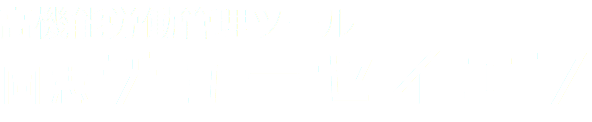
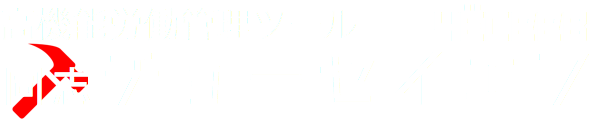
GitAutoPush at 2016/02/07/22:29:36

diff --git a/css/style.css b/css/style.css
@@ -66,13 +66,14 @@ body
 
   h2{
     position: relative;
-    margin:10px 0 1em;
+    margin:10px auto;
+    margin-bottom: 1em;
     padding: 0.3em;
     border:solid 1px #ff4f00;
     background:#ff4f00;
     color: white;
     font-size: 25px;
-    font-family: 'makinas';
+    width: 80%;
   }
   h2:after{
     position: absolute;
@@ -88,7 +89,7 @@ body
   }
 
   blockquote{
-    padding:2em 1em;
+    padding:1.5em 1em;
     position:relative;
   }
   blockquote:before{
@@ -114,51 +115,50 @@ body
 
   .main{
     margin:0 auto;
-    max-width:80%;
+    width:90%;
   }
 
-  #breadcrumbs-one{
-    overflow-y: hidden;
-    overflow-x: auto;
-    white-space: nowrap;
-    margin-left:-10px;
-    width:1000px;
+  .form{
+    display: inline-block;
+    vertical-align: bottom;
+    min-height:300px;
+    width:400px;
+    background:#ff4f00;
+    margin:5px;
+    padding:10px;
   }
-
-  #breadcrumbs-one a{
-    padding: .6em 2em .6em 2em;
-    margin-left:-7px;
-    display:inline-block;
-    text-decoration: none;
-    color: black;
-    position: relative;
-    background:black;
-    height:100px;
-    width:40%;
+  .form--wide1{
+    width:600px;
   }
-  #breadcrumbs-one a:first-child{
-    background: gray;
+  .form--wide2{
+    width:800px;
   }
-
-  #breadcrumbs-one a:first-child::after,
-  #breadcrumbs-one a:first-child::before{
-    content: "";
-    position: absolute;
-    top: 50%;
-    margin-top: -50px;
-    border-top: 50px solid transparent;
-    border-bottom: 50px solid transparent;
-    border-left: 50px solid;
-    right: -50px;
+  .form input[type="text"],
+  .form textarea{
+    width:90%;
+  	height:2em;
+  	opacity:0.8;
+    font-family: Meiryo, TakaoPGothic, 'Hiragino Kaku W0';
+    font-size: 1em;
+    appearance: none;
+    box-shadow: none;
+    border: none;
+  	background: white;
+    padding-left:10px;
   }
-  #breadcrumbs-one a:first-child::after{
-    z-index: 2;
-    border-left-color: yellow;
+  .form input[type="text"]:focus,
+  .form textarea:focus{
+  	opacity: 1;
+    outline: none;
   }
-  #breadcrumbs-one a:first-child::before{
-    right: -1.1em;
-    z-index: 1;
-    border-left-color: yellow;
+  .form.schedule input[type="text"]{
+    float:left;
+    width:50%;
+  }
+  .form.schedule textarea{
+    float:left;
+    width:50%;
+    height:200px;
   }
 
 /**********************************************************************
@@ -174,21 +174,18 @@ body
   overflow: hidden;
 }
 
-.header .logo{
-  position: relative;
-  height:400px;
-}
-.header .logo .lenin{
+.header .lenin{
   position: absolute;
   height:140px;
 }
-.header .logo .title{
+.header .title{
   display: inline-block;
-  height:60px;
+  height:80px;
 }
 .header blockquote{
   position: absolute;
-  left:150px;
+  left:140px;
+
 }
 
 /**********************************************************************
@@ -208,6 +205,45 @@ body
   color:black;
 }
 
+/**********************************************************************
+/  Calender
+/**********************************************************************/
+#datepicker{
+  float:right;
+  width:40%;
+}
+.ui-datepicker {
+  height: auto;
+  margin:0 auto;
+  font-family: 'Open Sans';
+}
+.ui-datepicker-title {
+  text-align: center;
+  color:white;
+}
+.ui-datepicker tr {
+  color:white;
+}
+.ui-datepicker-prev {
+
+  float:left;
+}
+.ui-datepicker-next {
+  float:right;
+}
+.ui-datepicker td{
+  text-align: center;
+  width:2em;
+  text-decoration: none;
+  background:rgba(0,0,0,0.1);
+  padding:1px;
+}
+.ui-datepicker td:hover{
+  background:rgba(0,0,0,0.3);
+}
+.ui-datepicker a{
+  color:white;
+}
 /**********************************************************************
 /  Animation
 /**********************************************************************/

diff --git a/index.html b/index.html
@@ -7,29 +7,50 @@
       <link id='css' rel='stylesheet' href='./css/reset.css?v=2' />
       <link id='css' rel='stylesheet' href='./css/style.css?v=2' />
       <script type="text/javascript" src="http://ajax.googleapis.com/ajax/libs/jquery/1.11.1/jquery.min.js"></script>
+      <script type="text/javascript" src="http://code.jquery.com/ui/1.10.3/jquery-ui.min.js"></script>
+      <script type="text/javascript" src="http://ajax.googleapis.com/ajax/libs/jqueryui/1.10.3/i18n/jquery-ui-i18n.min.js"></script>
       <script type='text/javascript' src='./js/main.js'></script>
+      <script type="text/javascript">
+      $(function() {
+        $.datepicker.setDefaults($.datepicker.regional['ja']);
+        $('#datepicker').datepicker({
+          dateFormat: 'yy/mm/dd',
+          onSelect: function(dateText, inst) {
+                    $("#inputdate").val($("#inputdate").val() + dateText + '\n');
+          }
+        });
+      });
+      </script>
       <link rel="stylesheet" href="https://maxcdn.bootstrapcdn.com/font-awesome/4.5.0/css/font-awesome.min.css">
       <link href='https://fonts.googleapis.com/css?family=Open+Sans' rel='stylesheet' type='text/css'>
     </head>
     <body>
 
       <div class='header'>
-        <div class='logo'>
-          <img class='lenin' src='./images/lenin.png' />
-          <blockquote>
-            <img class='title' src='./images/title.png' />
-            <!--h1>
-              Труд - это оптимальные распределение работы.<br />
-              労働とは仕事分配の最適化である。
-            </h1-->
-          </blockquote>
-        </div>
+        <img class='lenin' src='./images/lenin.png' />
+        <blockquote>
+          <img class='title' src='./images/title.png' />
+          <!--h1>
+            Труд - это оптимальные распределение работы.<br />
+            労働とは仕事分配の最適化である。
+          </h1-->
+        </blockquote>
+
       </div>
 
       <!--div id='loader'><img src='http://2015.igem.org/wiki/images/8/8b/UT_TOKYO_Loading.gif'></div-->
       <div class='main'>
         <h2>1分で作れる！労働スケジュール管理表</h2>
-
+        <div style='width:100%;text-align:center;'>
+          <div class='form'>
+            <input type="text" maxlength="16" placeholder="イベント名:十月革命当日のシフト" />
+          </div>
+          <div class='form form--wide1 schedule'>
+            <!--input type="text" placeholder="1917/10/25" id='inputdate' wrap='soft'/-->
+            <textarea placeholder="1917/10/25" id='inputdate' wrap='soft'></textarea>
+            <div id="datepicker"></div>
+          </div>
+        </div>
       </div>
 
       <div class='footer'>
